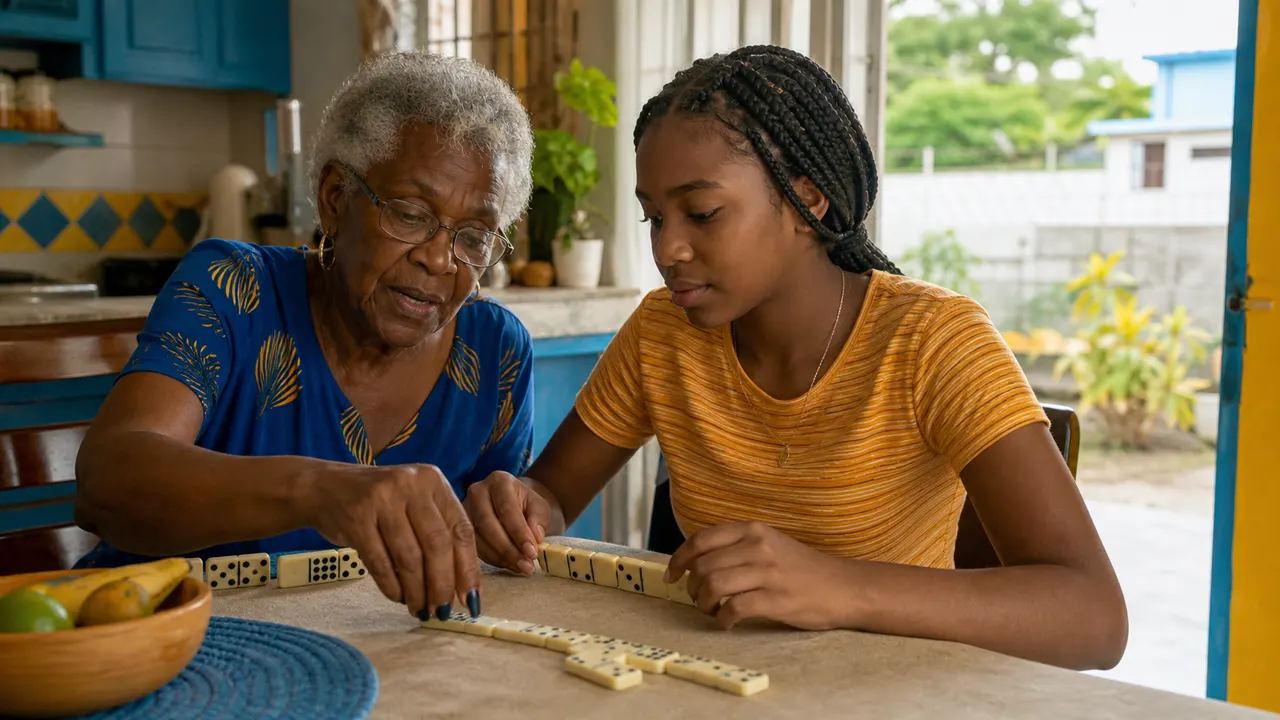
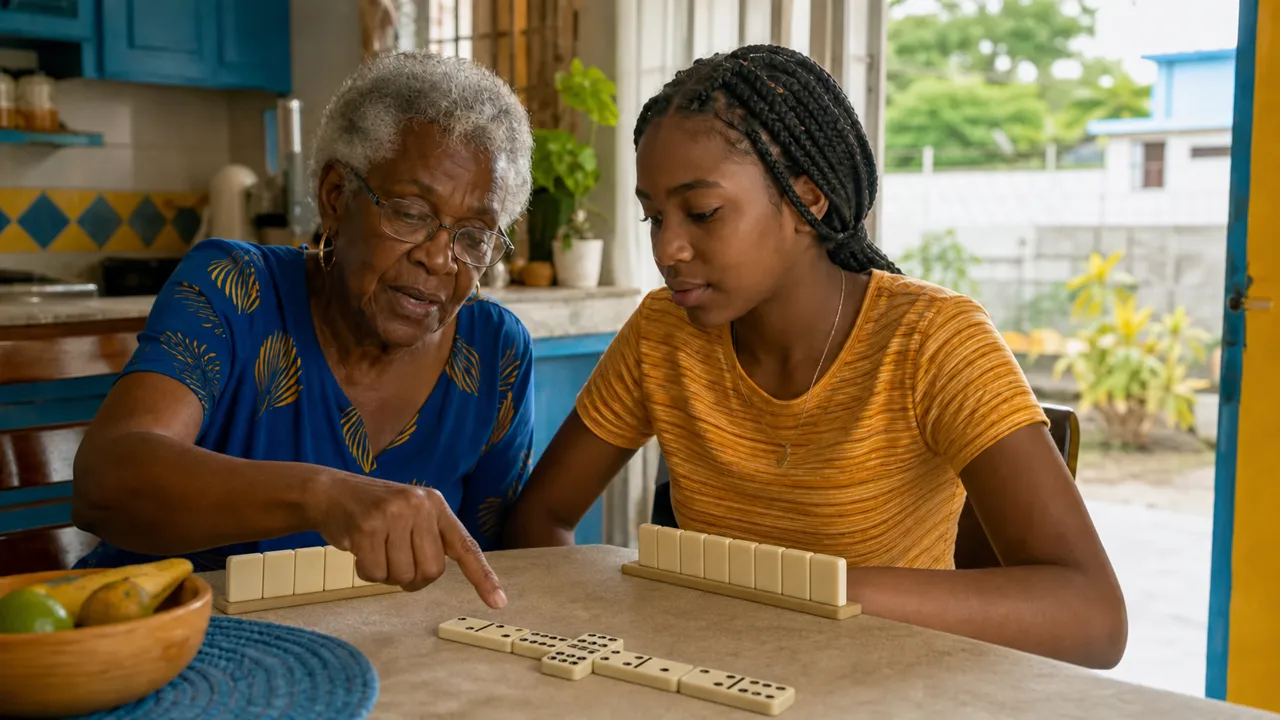
design: correct dominoes in marketing artwork

diff --git a/apps/web/src/main.ts b/apps/web/src/main.ts
@@ -14,7 +14,7 @@ function formatLabel(format: SetFormat): string {
 import type { LeakStore, TalkTrigger } from '@yard/engine';
 import type { DuppyLevel, GameMode, HandReview, Move, PenaltyEvent, SetFormat } from '@yard/engine';
 import { LocalGame } from './local.ts';
-import { tileEl, renderBoard, scoreTrack, el, crossRejectReason, penaltyBanner, frenchScoreBreakdown, frenchPenaltyLog } from './render.ts';
+import { tileEl, renderBoard, backsEl, scoreTrack, el, crossRejectReason, penaltyBanner, frenchScoreBreakdown, frenchPenaltyLog } from './render.ts';
 import { boardAfter, encodeHand, handFromUrl, shareUrl } from './replay.ts';
 import type { ReplayHand } from './replay.ts';
 import { hasVoice, lineFor, muted, setMuted, speak } from './speak.ts';
@@ -717,12 +717,13 @@ function lobby(): HTMLElement {
   // French used to live only as a third option inside Cut throat's "Set"
   // dropdown — a player who specifically wants French had no way to find it
   // without already knowing it was nested under Cut throat first. It's a
-  // top-level Game choice now, alongside Partner and Cut throat, even
+  // top-level Game choice now, same as Partner/Open hand/Cut throat, even
   // though under the hood it's still cutthroat mode + french format (see
   // resolvedMode/resolvedFormat below) — the engine's own createSet() forces
   // that pairing regardless of what this form sends.
   const mode = document.createElement('select');
   mode.innerHTML = `<option value="partner">Partner — 2 v 2</option>
+                    <option value="openhand">Open hand — partner sees your tiles</option>
                     <option value="cutthroat">Cut throat — every man for himself</option>
                     <option value="french">French — race to 100, lowest wins</option>`;
   const resolvedMode = (): GameMode => mode.value === 'french' ? 'cutthroat' : (mode.value as GameMode);
@@ -870,9 +871,7 @@ function seats(g: LocalGame): HTMLElement {
     card.append(el('h3', undefined, g.seatLabel(seat)));
     const count = g.hand?.hands[seat].length ?? 0;
     card.append(el('div', 'meta', `${count} tile${count === 1 ? '' : 's'}`));
-    // Hidden means hidden. Opponents are represented by a number only; even
-    // face-down bone silhouettes made it look as though part of their hand
-    // had leaked onto the table.
+    if (seat !== g.mySeat) card.append(backsEl(count));
 
     // Show what their passes gave away. This is Belt 4 Lesson 1, surfaced in
     // the table itself so the habit forms by seeing it, not by being told.
@@ -917,6 +916,19 @@ const ARM_DIRECTION_ARROW: Record<'right' | 'left' | 'up' | 'down', { glyph: str
   up: { glyph: '↑', label: 'top' },
   down: { glyph: '↓', label: 'bottom' },
 };
+
+function partnerHandPanel(tiles: string[]): HTMLElement {
+  const panel = el('div', 'panel partner-hand');
+  panel.append(el('div', 'eyebrow', 'Partner'));
+  const row = el('div', 'hand');
+  for (const tile of tiles) {
+    const node = tileEl(tile);
+    node.classList.add('sm', 'dead');
+    row.appendChild(node);
+  }
+  panel.appendChild(row);
+  return panel;
+}
 
 function myHand(g: LocalGame): HTMLElement {
   const panel = el('div', 'panel my-hand-panel');
@@ -1385,8 +1397,13 @@ function tableView(g: LocalGame): DocumentFragment {
   // used to render after seats()/soundToggle(), which on a phone pushed the
   // hand below the board far enough that playing meant scrolling down to
   // read the hand, then back up to read the board.
-  // Only this player's own hand belongs below the board. Partner and opponent
-  // tiles stay hidden in every mode; the seat cards expose counts only.
+  // Openhand: your partner's tiles above your own, on the same terms as the
+  // online table — small, non-interactive, labelled. LocalGame holds the full
+  // engine state, so this is a direct read; no RLS or subscription involved.
+  if (g.options.mode === 'openhand' && g.hand) {
+    const partnerSeat = g.mySeat ^ 2;
+    room.appendChild(partnerHandPanel(g.hand.hands[partnerSeat]));
+  }
   room.appendChild(myHand(g));
 
   room.appendChild(seats(g));

diff --git a/apps/web/src/onlinetableview.ts b/apps/web/src/onlinetableview.ts
@@ -13,7 +13,7 @@ import {
 } from './lounges.ts';
 import { createTable, joinTable } from './online.ts';
 import { profilePanel } from './profile.ts';
-import { tileEl, renderBoard, scoreTrack, el, crossRejectReason, frenchScoreBreakdown, frenchPenaltyLog } from './render.ts';
+import { tileEl, renderBoard, scoreTrack, backsEl, el, crossRejectReason, frenchScoreBreakdown, frenchPenaltyLog } from './render.ts';
 import { fileReport } from './reports.ts';
 import { photoUrl } from './photo.ts';
 import { seatPosition } from './seatlayout.ts';
@@ -92,12 +92,13 @@ function startTableForm(loungeId: string, onJoin: (tableId: string) => void): HT
   // French used to live only as a third option inside Cut throat's "Set"
   // dropdown — a player who specifically wants French had no way to find it
   // without already knowing it was nested under Cut throat first. It's a
-  // top-level Game choice now, alongside Partner and Cut throat, even
+  // top-level Game choice now, same as Partner/Open hand/Cut throat, even
   // though under the hood it's still cutthroat mode + french format — the
   // server's own createSet() forces that pairing regardless of what this
   // form sends. See resolvedMode/resolvedFormat below.
   const mode = document.createElement('select');
   mode.innerHTML = `<option value="partner">Partner — 2 v 2</option>`
+    + `<option value="openhand">Open hand — partner sees your tiles</option>`
     + `<option value="across">Across — 2 players, you play both hands</option>`
     + `<option value="cutthroat">Cut throat</option>`
     + `<option value="french">French — race to 100, lowest wins</option>`;
@@ -503,8 +504,7 @@ function seatCard(
   const scoreIndex = isPartnered(game.table.mode) ? sideOf(s.seatIndex, game.table.mode) : s.seatIndex;
   const score = game.scores[scoreIndex] ?? 0;
   card.append(el('div', 'seat-score', String(score)));
-  // Never draw another seat's unplayed bones, including face-down backs.
-  // A plain count is all the public information this card needs.
+  if (s.seatIndex !== game.mySeat) card.append(backsEl(count));
   decorateSeat(card, s.userId, social);
   if (s.userId && s.seatIndex !== game.mySeat) {
     card.appendChild(reportButton(s.userId, game.table.id, rerender));
@@ -746,6 +746,9 @@ export function liveTableView(
   if (!game.hand) {
     frag.appendChild(startHandPanel(game));
   } else {
+    if (!game.isSpectator && game.partnerTiles && game.table.mode === 'openhand') {
+      frag.appendChild(partnerHandPanel(game.partnerTiles));
+    }
     if (game.hand.status !== 'active' && game.hand.result) {
       frag.appendChild(handResultPanel(game, rerender));
     }
@@ -923,10 +926,23 @@ function countdown(game: OnlineGame, expiresAt: string): HTMLElement {
   return wrap;
 }
 
+function partnerHandPanel(tiles: string[]): HTMLElement {
+  const panel = el('div', 'panel partner-hand');
+  panel.append(el('div', 'eyebrow', 'Partner'));
+  const row = el('div', 'hand');
+  for (const tile of tiles) {
+    const node = tileEl(tile);
+    node.classList.add('sm', 'dead');
+    row.appendChild(node);
+  }
+  panel.appendChild(row);
+  return panel;
+}
+
 /**
  * Across only — whichever of my own two hands is NOT live right now. Same
- * plain, unselectable display, labelled for what it actually is here: my own
- * second hand waiting its turn, never another person's tiles.
+ * plain, unselectable display as partnerHandPanel, labelled for what it
+ * actually is here: my own second hand waiting its turn.
  */
 function myOtherHandPanel(tiles: string[]): HTMLElement {
   const panel = el('div', 'panel partner-hand');

diff --git a/apps/web/src/onlinetable.ts b/apps/web/src/onlinetable.ts
@@ -107,8 +107,8 @@ export class OnlineGame {
    */
   predictedPartnerTiles: TileId[] | null = null;
   /**
-   * The second hand in Across, where this same signed-in player controls both
-   * seats. Null in every other mode; another person's tiles are never loaded.
+   * The partner's tiles when the mode grants sight of them: Open hand is
+   * read-only; Across is the second seat controlled by the same player.
    */
   partnerTiles: TileId[] | null = null;
 
@@ -505,15 +505,15 @@ export class OnlineGame {
         this.emit({ type: 'state' });
       },
       onSeatTiles: (handId, seatIndex, tiles) => {
-        // RLS decides which seat_hands rows reach me: my own always. Across's
-        // second row also carries MY OWN user_id (see 0041_across.sql). Route
-        // by seat_index — writing
+        // RLS decides which seat_hands rows reach me: my own always, and my
+        // partner's when the mode is Open hand or Across. Route by seat_index — writing
         // partner tiles into `myTiles` is the bug this callback shape exists
         // to make impossible. A row I do not recognise gets dropped.
         if (handId !== this.hand?.hand_id) return;
         if (seatIndex === this.mySeat) {
           this.myTiles = tiles;
-        } else if (seatIndex === this.partnerSeat() && this.table.mode === 'across') {
+        } else if (seatIndex === this.partnerSeat()
+          && (this.table.mode === 'openhand' || this.table.mode === 'across')) {
           this.partnerTiles = tiles;
         } else {
           return;
@@ -586,7 +586,7 @@ export class OnlineGame {
   }
 
   /**
-   * Read this player's tiles — both controlled seats only in Across.
+   * Read this seat's tiles — and, in Open hand or Across, the partner's tiles too.
    *
    * One round trip, not two. Across needs no RLS extension — both rows already
    * carry the same account's own user_id, so the baseline "your own tiles
@@ -596,7 +596,7 @@ export class OnlineGame {
   private async loadPrivateTiles(handId: string): Promise<void> {
     if (this.mySeat === null) return;
     const partner = this.partnerSeat();
-    const wantsBothSeats = this.table.mode === 'across' && partner !== null;
+    const wantsBothSeats = (this.table.mode === 'openhand' || this.table.mode === 'across') && partner !== null;
     const seats = wantsBothSeats ? [this.mySeat, partner!] : [this.mySeat];
     const { data } = await db().from('seat_hands').select('seat_index, tiles')
       .eq('hand_id', handId).in('seat_index', seats);

diff --git a/apps/web/src/styles.css b/apps/web/src/styles.css
@@ -612,6 +612,14 @@ label.field > span {
   font-size: 18px; font-weight: 700; color: var(--gold-deep);
   margin-top: 2px;
 }
+.backs { display: flex; gap: 4px; margin-top: 6px; flex-wrap: wrap; }
+.backs i {
+  width: 18px; height: 36px; border-radius: 4px; display: block;
+  background: linear-gradient(168deg, var(--wood-hi), var(--wood) 70%);
+  box-shadow:
+    0 3px 0 rgba(36, 22, 8, 0.55),
+    0 4px 6px rgba(0, 0, 0, 0.35);
+}
 .passed { color: var(--blood); font-family: var(--mono); font-size: 11px; }
 
 .seat .report { margin-top: 8px; }

diff --git a/apps/web/src/tournamentview.ts b/apps/web/src/tournamentview.ts
@@ -406,7 +406,8 @@ function newEventForm(me: MyProfile, rerender: () => void): HTMLElement {
 
   const mode = document.createElement('select');
   mode.innerHTML = '<option value="cutthroat">Cut throat</option>'
-    + '<option value="partner">Partner — 2 v 2</option>';
+    + '<option value="partner">Partner — 2 v 2</option>'
+    + '<option value="openhand">Open hand — partner sees your tiles</option>';
 
   const row = el('div', 'row');
   row.append(name, starts, mode);

diff --git a/apps/web/src/render.ts b/apps/web/src/render.ts
@@ -368,6 +368,13 @@ function renderCross(host: HTMLElement, board: CrossBoard, _opts: BoardFit) {
   });
 }
 
+export function backsEl(count: number): HTMLElement {
+  const wrap = document.createElement('div');
+  wrap.className = 'backs';
+  for (let i = 0; i < count; i++) wrap.appendChild(document.createElement('i'));
+  return wrap;
+}
+
 /** Six pips per side. They light one at a time and go out all together. */
 export function scoreTrack(
   label: string,

diff --git a/apps/web/public/sw.js b/apps/web/public/sw.js
@@ -12,7 +12,7 @@
  *     network.
  */
 
-const VERSION = 'yaaddominoes-v59';
+const VERSION = 'yaaddominoes-v60';
 const SHELL = `${VERSION}-shell`;
 
 // Bumping VERSION invalidates everything below.

diff --git a/docs/memory.md b/docs/memory.md
@@ -521,15 +521,15 @@ Everything below is live and verified, not just written:
 - Phone rules keep chat/watchers/standings/log/profile below the table up to
   1100px, enlarge the playable hand to 44×88px on normal phones, and reserve
   56svh for the felt where height permits.
-- Hidden-hand display is now a seventh product invariant: only off-board tiles
-  controlled by the viewer render. Every other seat shows a numeric count—no
-  face-up pips and no face-down bone silhouettes. Open-hand is no longer
-  offered for new practice or online tables; Across still shows both hands
-  because the same signed-in player controls both.
-- Browser QA at 390×844 confirmed the live practice table renders exactly one
-  face-up seven-bone hand (“Your play”); the other three seats show only “7
-  tiles.” The local production preview also loaded with zero new console errors
-  after the pre-migration accessory fallback was added.
+- The 2026-08-22 hidden-hand UI change was a misunderstanding and has been
+  reverted. Opponents intentionally retain face-down bone backs as public hand
+  counts, and Open hand intentionally reveals a partner's tiles. The privacy
+  correction applies only to human marketing artwork: photographs must never
+  show a player's unplayed pip faces to the camera or other players.
+- All three marketing photographs were regenerated on 2026-08-22 around the
+  same art direction but with one connected legal played chain, a crosswise
+  double, and private hands facing their owners. Future image work must be
+  checked against the domino-accuracy rule in `docs/branding.md` before ship.
 - Seat backdrops were replaced with five vibrant, people-free environmental
   scenes on 2026-08-22. They intentionally contain no dominoes, hands, faces,
   text or flags; this prevents decorative art from reading as leaked tiles at

diff --git a/docs/branding.md b/docs/branding.md
@@ -84,6 +84,12 @@ hands/dominoes, and generic tropical-resort scenes. Do not present generated
 people as real customers. A marketing sequence should normally lead with the
 actual product, then use one human scene to communicate atmosphere.
 
+Domino accuracy is a release requirement, not decorative latitude. A photo may
+show only one connected played chain; adjoining values must match, doubles sit
+crosswise, and every unplayed hand faces its owner so the camera and opponents
+see only backs or edges. Never allow disconnected face-up rows, loose public
+bones, or a rack whose pips face another player.
+
 ## Source-of-truth files
 
 - `docs/branding.md` — brand strategy and visual guardrails
@@ -116,7 +122,8 @@ these files from an unrelated prompt or substitute Yaadmoji artwork.
   They use environmental color rather than extra figures or dominoes so hidden
   hands can never be confused with decorative art.
 - `apps/web/public/marketing/` — three generated social-play scenes used only
-  on marketing/onboarding surfaces, never behind a live board
+  on marketing/onboarding surfaces, never behind a live board. Their domino
+  arrangements were accuracy-corrected on 2026-08-22.
 
 The hero must remain a static responsive image, not hundreds of pip DOM nodes.
 That conversion materially improved mobile paint and main-thread performance.

diff --git a/CLAUDE.md b/CLAUDE.md
@@ -50,7 +50,7 @@ Node 22+ runs TypeScript directly. The engine has no build step.
 
 Detailed rules live in `.claude/rules/` and load when you touch matching files.
 
-## The seven invariants
+## The six invariants
 
 Breaking any of these breaks the product's reason to exist. They are not
 preferences.
@@ -69,10 +69,6 @@ preferences.
    `hand_public.server_seed` while `status = 'active'`.
 6. **No real-money play in this codebase.** Not behind a flag, not as hidden
    UI. See "Money" below.
-7. **Only tiles controlled by the viewing player may render off the board.**
-   Every other seat exposes a numeric count only—no pip faces and no face-down
-   bone silhouettes. Across may show both hands because one player controls both.
-
 ## Rules competitors get wrong
 
 Jamaican players notice these immediately. All are covered by tests.

diff --git a/AGENTS.md b/AGENTS.md
@@ -50,7 +50,7 @@ Node 22+ runs TypeScript directly. The engine has no build step.
 
 Detailed rules live in `.Codex/rules/` and load when you touch matching files.
 
-## The seven invariants
+## The six invariants
 
 Breaking any of these breaks the product's reason to exist. They are not
 preferences.
@@ -69,10 +69,6 @@ preferences.
    `hand_public.server_seed` while `status = 'active'`.
 6. **No real-money play in this codebase.** Not behind a flag, not as hidden
    UI. See "Money" below.
-7. **Only tiles controlled by the viewing player may render off the board.**
-   Every other seat exposes a numeric count only—no pip faces and no face-down
-   bone silhouettes. Across may show both hands because one player controls both.
-
 ## Rules competitors get wrong
 
 Jamaican players notice these immediately. All are covered by tests.

diff --git a/.claude/rules/design.md b/.claude/rules/design.md
@@ -208,6 +208,3 @@ easiest to see.
   side rail is allowed only when the board still has genuinely generous space.
 - The player's hand stays in one horizontal, scrollable row so larger hands do
   not wrap into a tall block or shrink the bones below comfortable tap size.
-- Off-board tiles belonging to another player never render, not even as
-  face-down backs. Their seat shows a numeric count only. Across may render
-  both hands because one signed-in player controls both seats.
